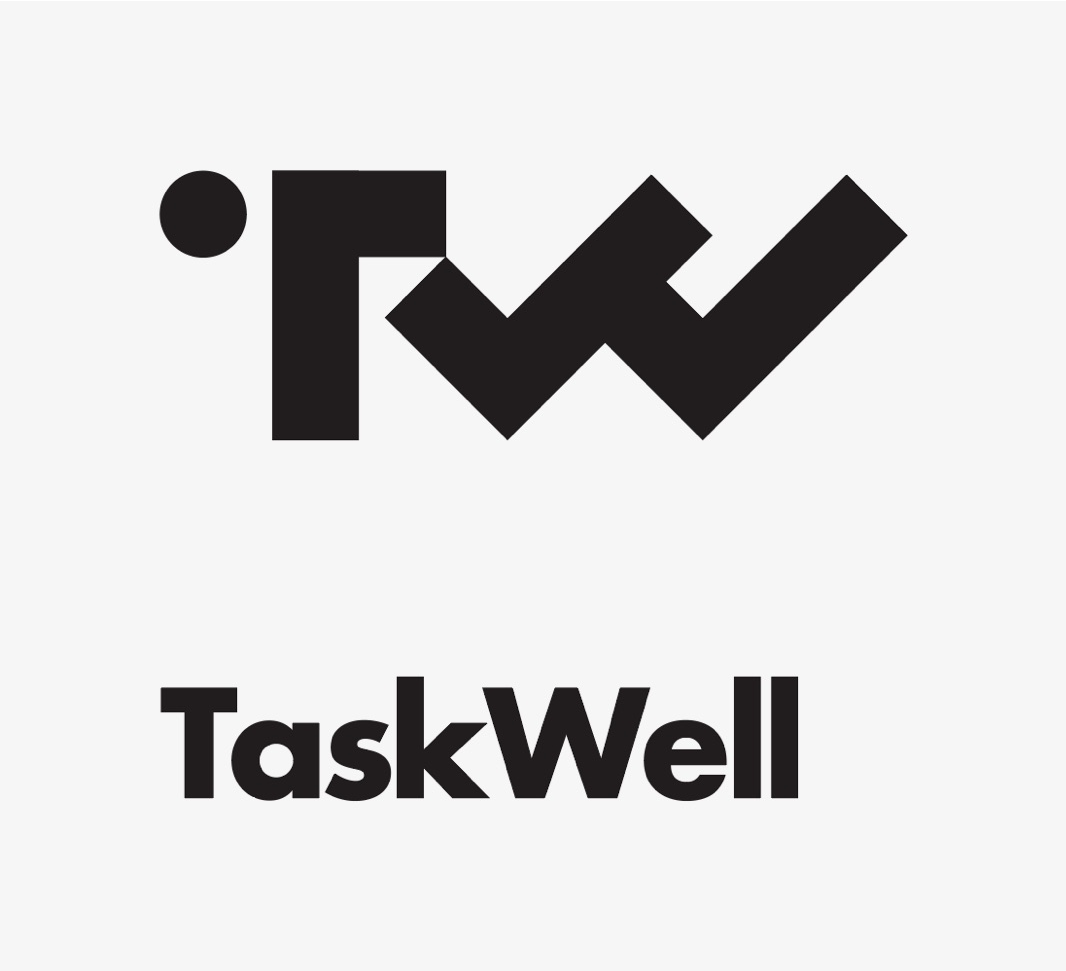
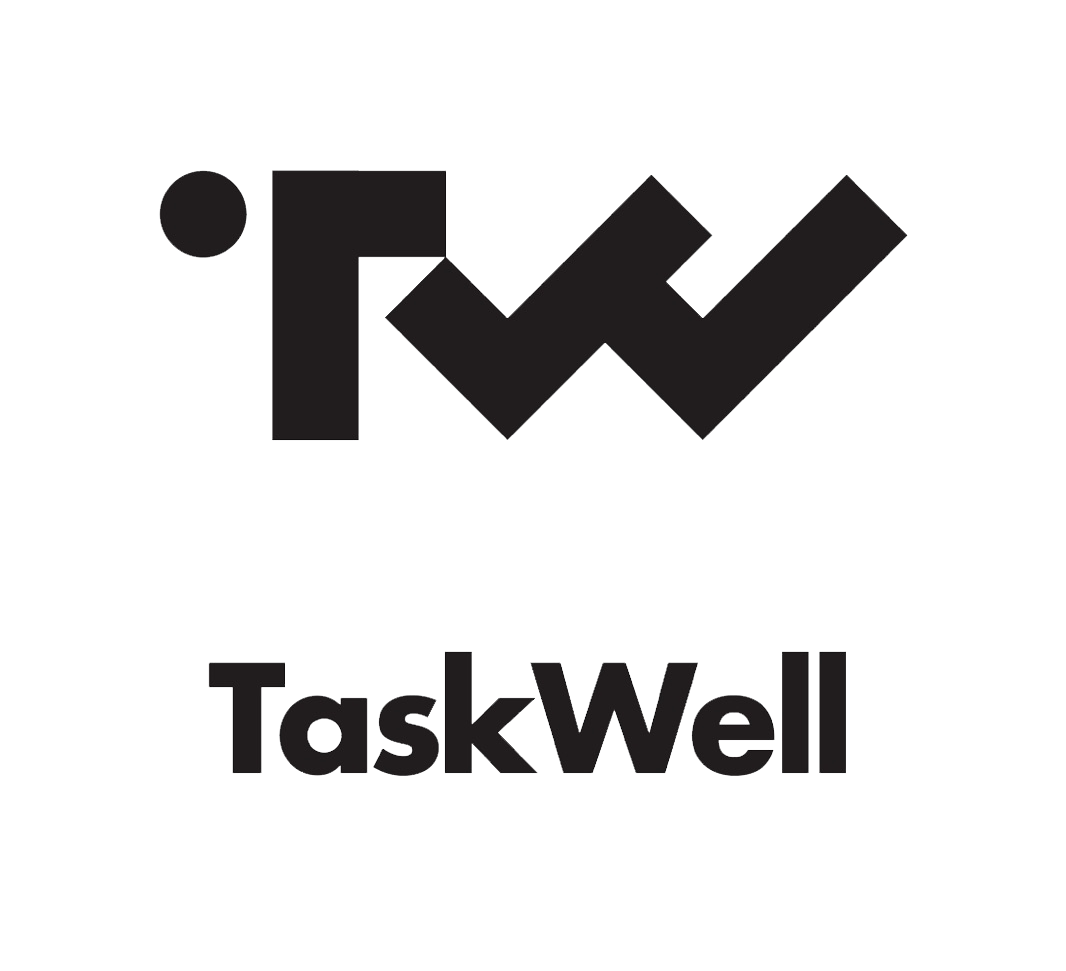
added images to index branch

Changed region(s): [[0.1238, 0.6488, 0.8049, 0.8342]]

diff --git a/public/index.html b/public/index.html
@@ -17,7 +17,7 @@
     <div class="container">
         <div class="row logo">
             <!-- logo -->
-            <img src="assets/images/taskwellBlack.png" alt="TaskWell" style="width: 350px; length: 150px;">
+            <img src="assets/images/taskwellBlack.png" alt="TaskWell" style="width: 300px; height: 300px; border-radius: 25%">
         </div>
         <div id="container"></div>
         <div class="row loginLink">
